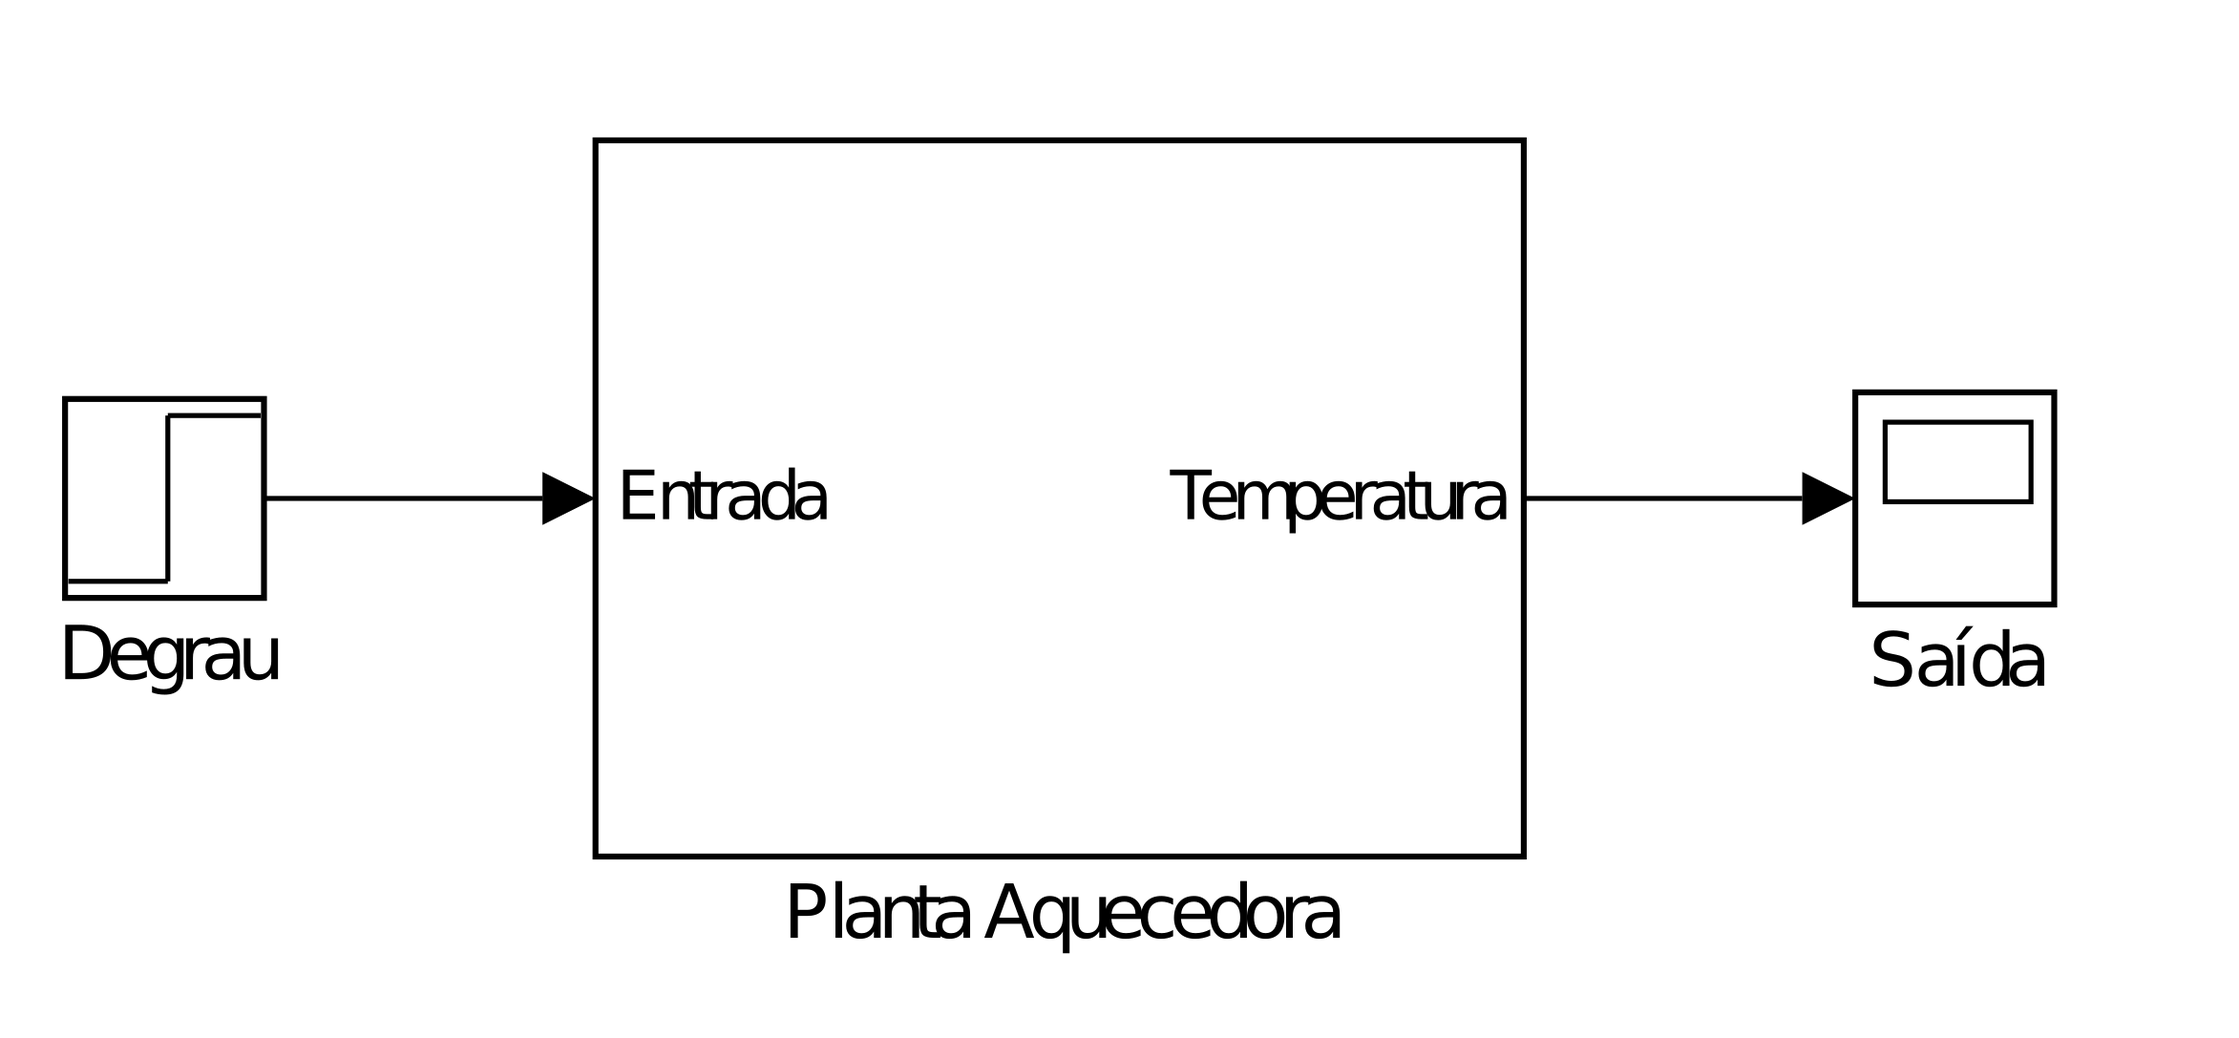
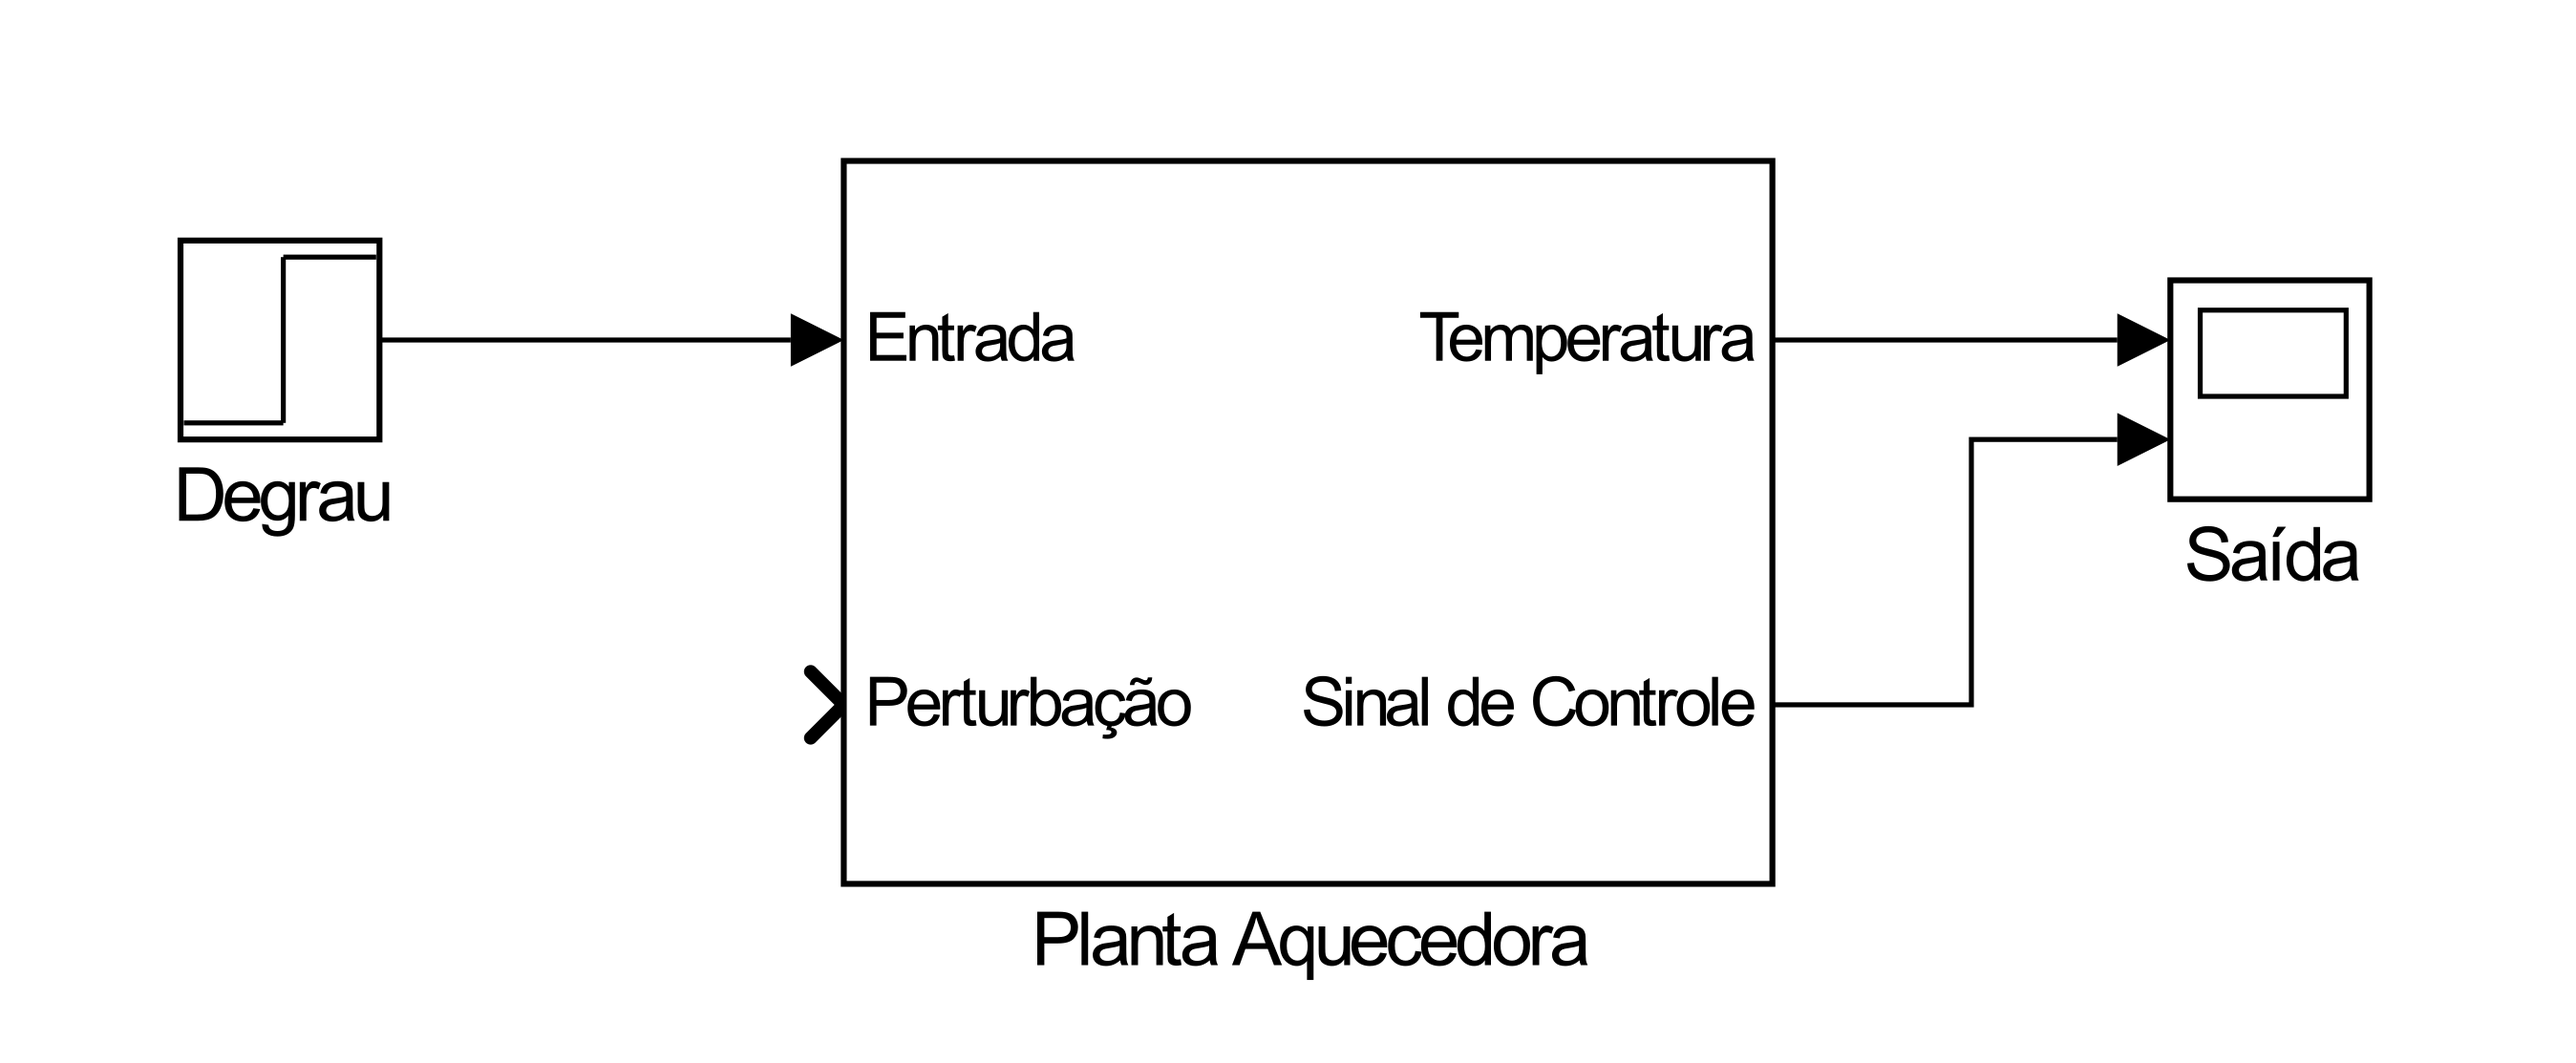
Some minor refinements.

diff --git a/exp1.md b/exp1.md
@@ -128,6 +128,10 @@ Utilizando o modelo de Matlab, vamos observar a resposta do sistema em malha abe
 
 <img src="/control-lab/assets/images/exp1/step.png" style="width: 60%;"/>
 
+O controle pode ser feito como mostra a figura a seguir. Note que é necessário zerar os offsets de temperatura na realimentação porque o sistema deve ser linearizado (ou seja, quando a entrada é zero, a saída é zero, que equivale à temperatura ambiente). Escolheu-se 23 ºC porque é a temperatura média em Blumenau/SC, mas você pode alterar ou mesmo usar o primeiro valor de medição de temperatura como base.
+
+<img src="/control-lab/assets/images/exp1/simulink-controle.png" style="width: 60%;"/>
+
 ## Controle On/Off
 
 O controle on/off consiste em aplicar sinal de controle máximo ou mínimo caso a planta esteja abaixo ou acima do setpoint, respectivamente. A Figura a seguir mostra o resultado desse tipo de controle. Note que o sinal é brusco e isso reflete em overshoots na saída, já que o sistema possui atraso.

diff --git a/planta1.md b/planta1.md
@@ -72,7 +72,7 @@ O circuito completo foi montado se baseando então no circuito de exemplo presen
   <img class="card-img-top" src="/control-lab/assets/images/planta1/completo.png" style="width: 95%" alt="Card image cap">
   <div class="card-body" style="margin-bottom: 2rem;">
     <p class="card-text">Baixe os arquivos do projeto no Eagle (esquemáticos e PCB).</p>
-    <a href="#" class="btn btn-primary">Baixar projeto</a>
+    <a href="https://github.com/bvanelli/control-lab/tree/master/schematics/phase-control" target="_blank" class="btn btn-primary">Baixar projeto</a>
   </div>
 </div>
 

diff --git a/planta2.md b/planta2.md
@@ -38,7 +38,7 @@ O circuito final pode ser observado a seguir.
   <img class="card-img-top" src="/control-lab/assets/images/planta2/completo.png" style="width: 95%" alt="Card image cap">
   <div class="card-body" style="margin-bottom: 2rem;">
     <p class="card-text">Baixe os arquivos do projeto no Eagle (esquemáticos e PCB).</p>
-    <a href="#" class="btn btn-primary">Baixar projeto</a>
+    <a href="https://github.com/bvanelli/control-lab/tree/master/schematics/voltage-control" target="_blank" class="btn btn-primary">Baixar projeto</a>
   </div>
 </div>
 
